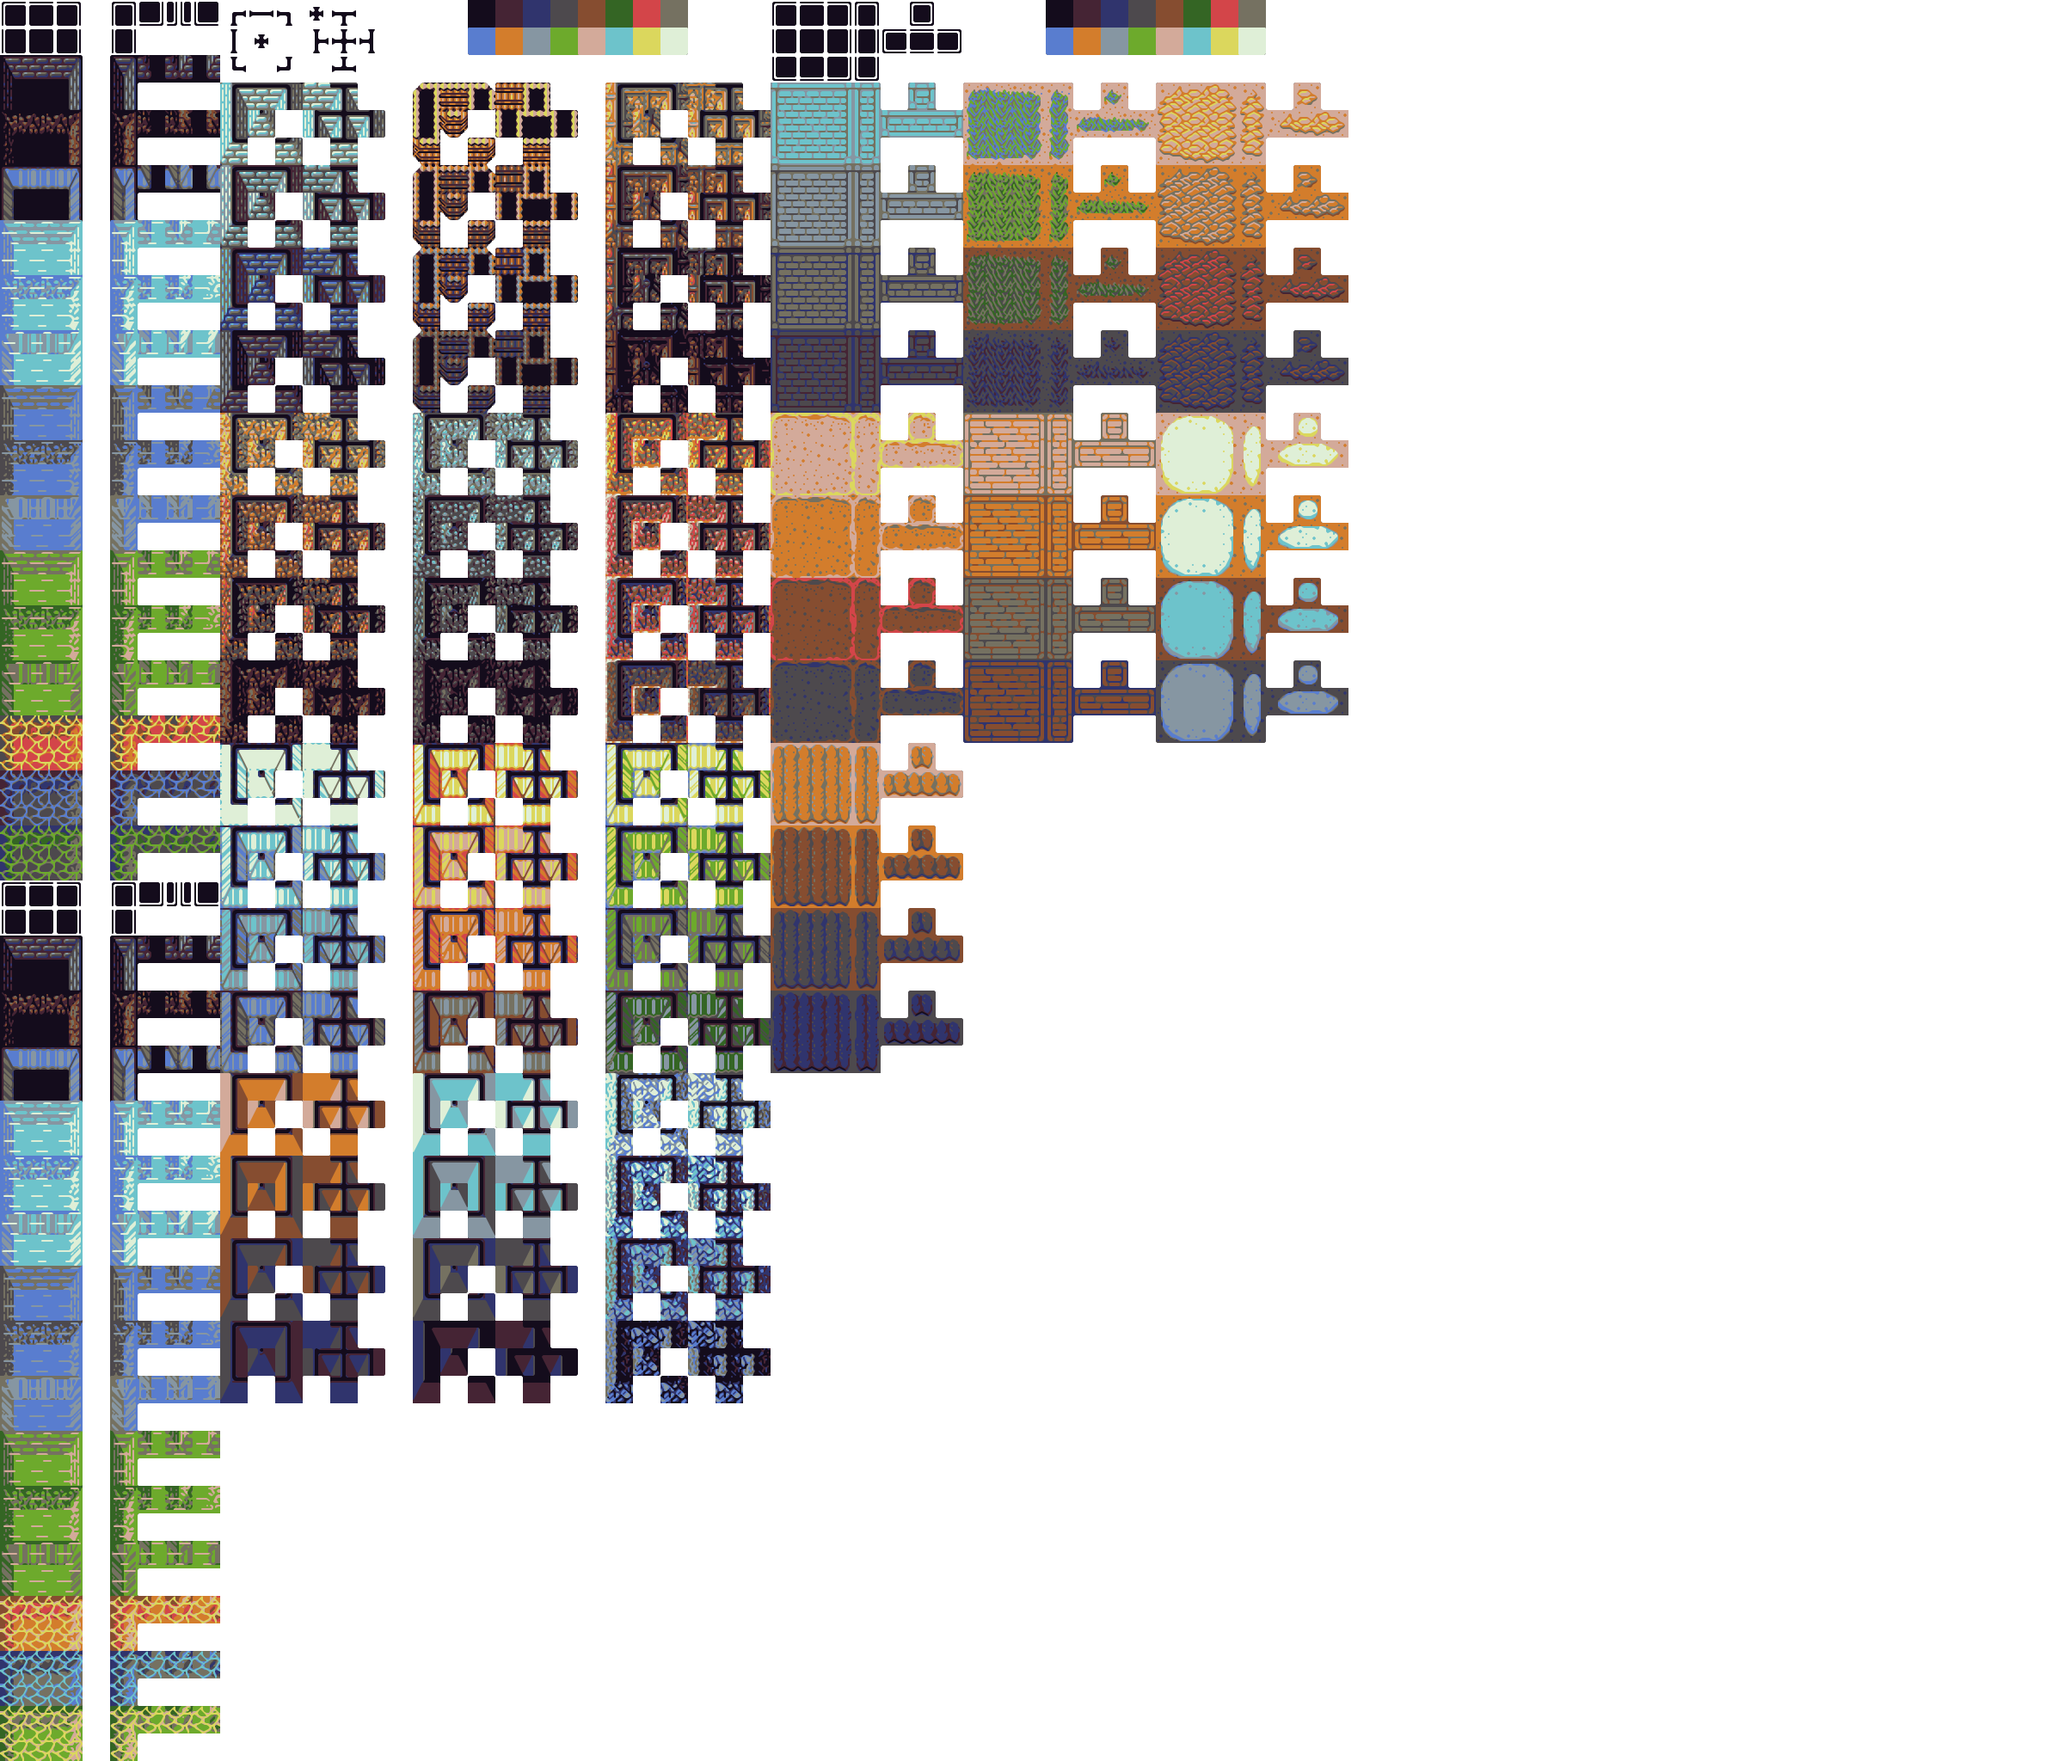
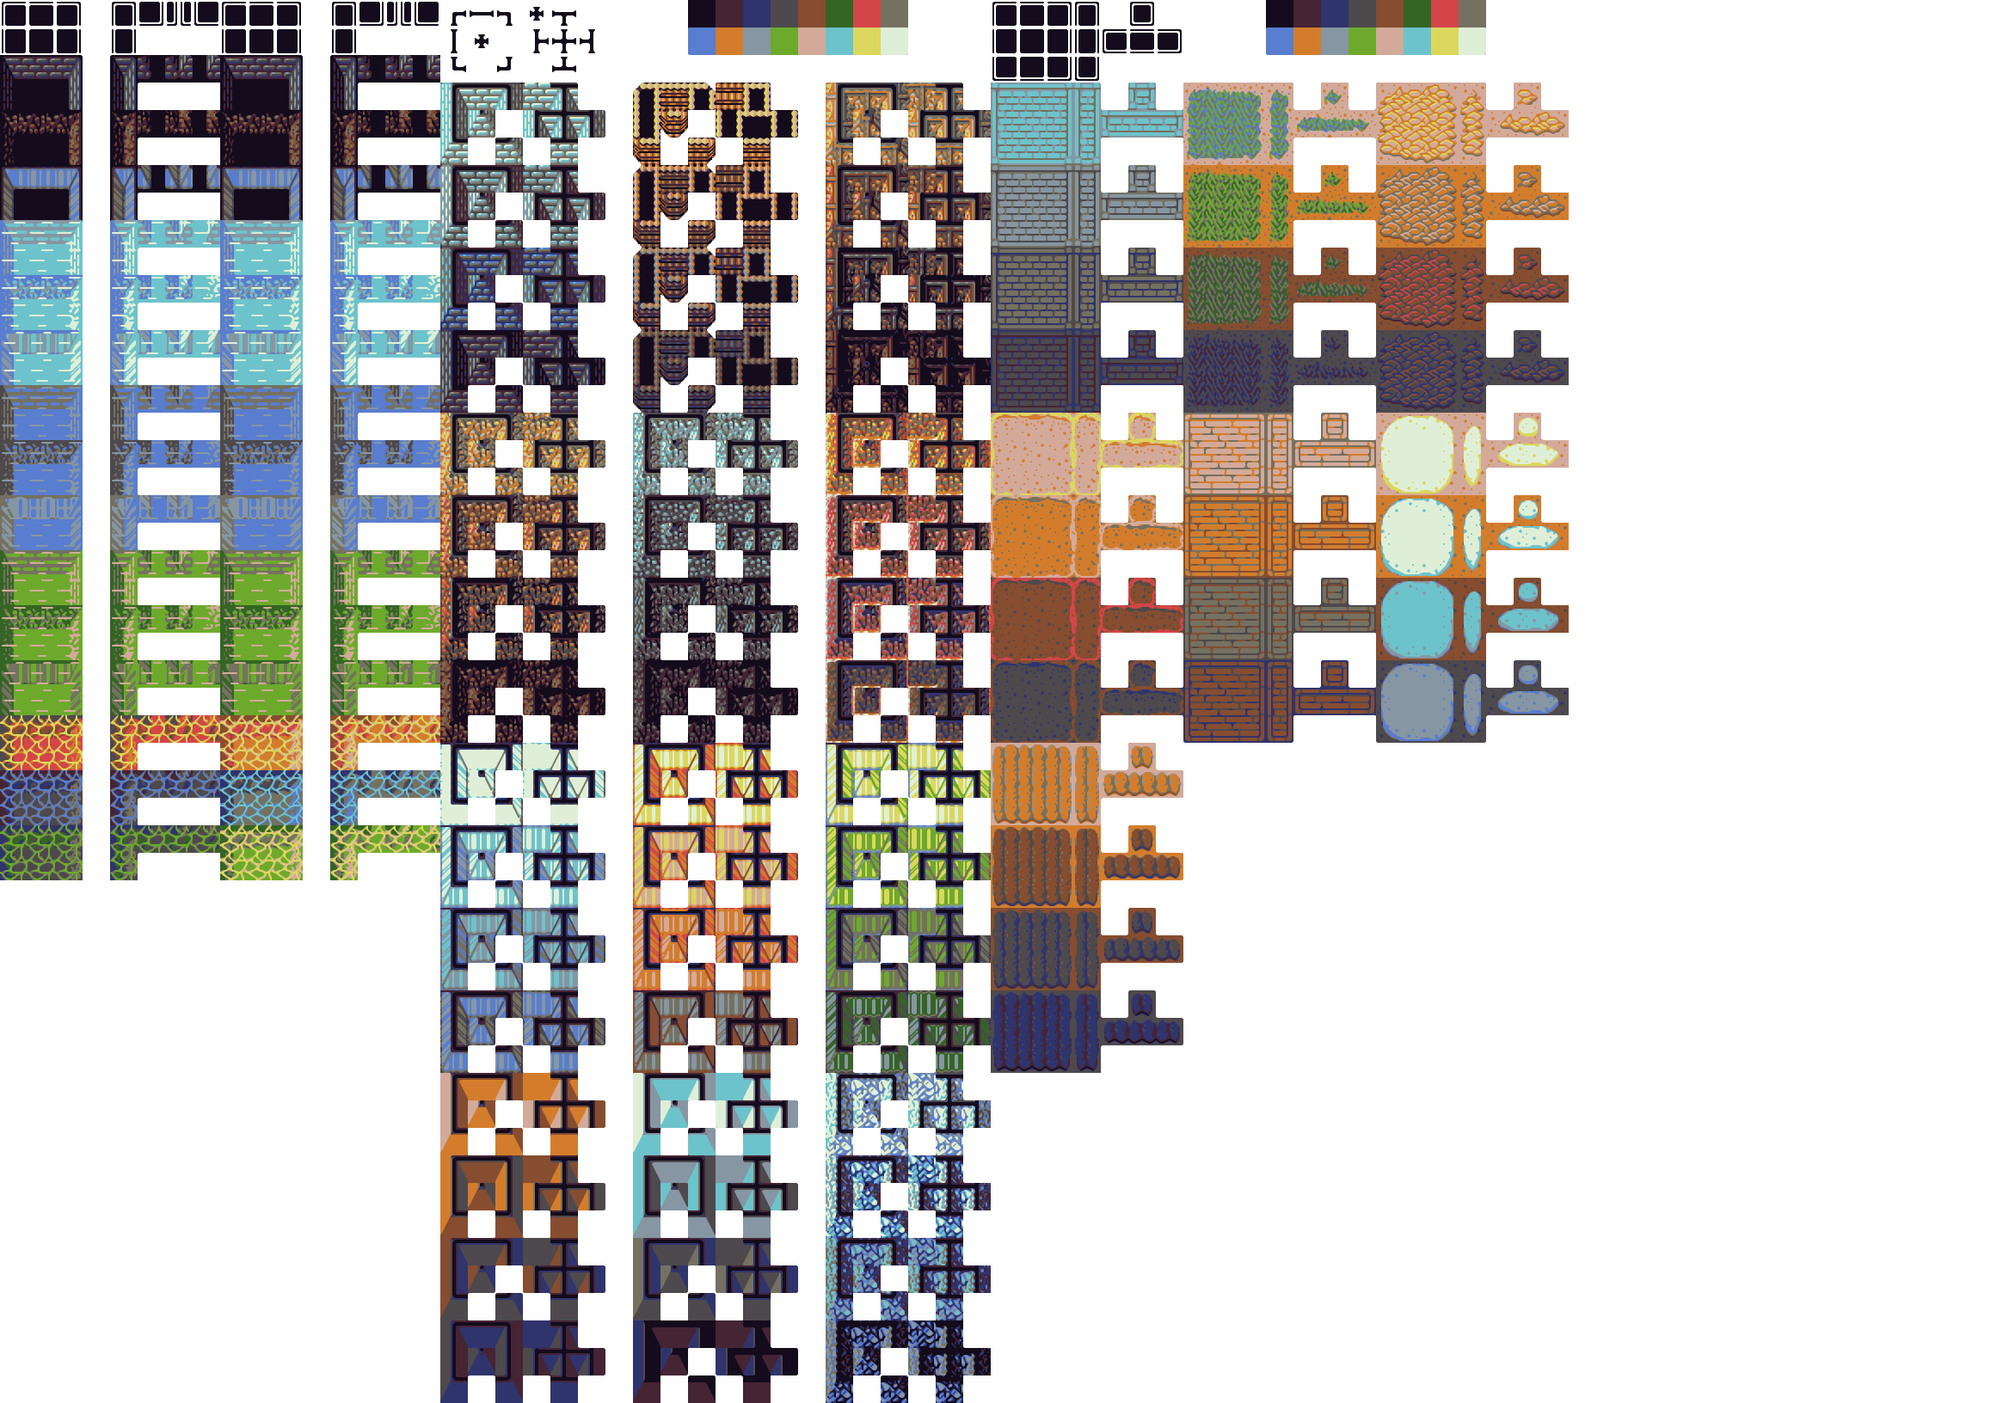
Still fiddling with base maps.

diff --git a/Tilesets/middleground.tsx b/Tilesets/middleground.tsx
@@ -1,4 +1,4 @@
 <?xml version="1.0" encoding="UTF-8"?>
-<tileset name="middleground" tilewidth="32" tileheight="32" tilecount="4140" columns="115">
- <image source="../Assembled/middleground.png" width="3680" height="1152"/>
+<tileset name="middleground" tilewidth="32" tileheight="32" tilecount="3432" columns="156">
+ <image source="../Assembled/middleground.png" width="4992" height="704"/>
 </tileset>

diff --git a/Tilesets/background.tsx b/Tilesets/background.tsx
@@ -1,4 +1,4 @@
 <?xml version="1.0" encoding="UTF-8"?>
-<tileset name="background" tilewidth="32" tileheight="32" tilecount="4800" columns="75">
- <image source="../Assembled/background.png" width="2400" height="2048"/>
+<tileset name="background" tilewidth="32" tileheight="32" tilecount="3723" columns="73">
+ <image source="../Assembled/background.png" width="2336" height="1632"/>
 </tileset>
